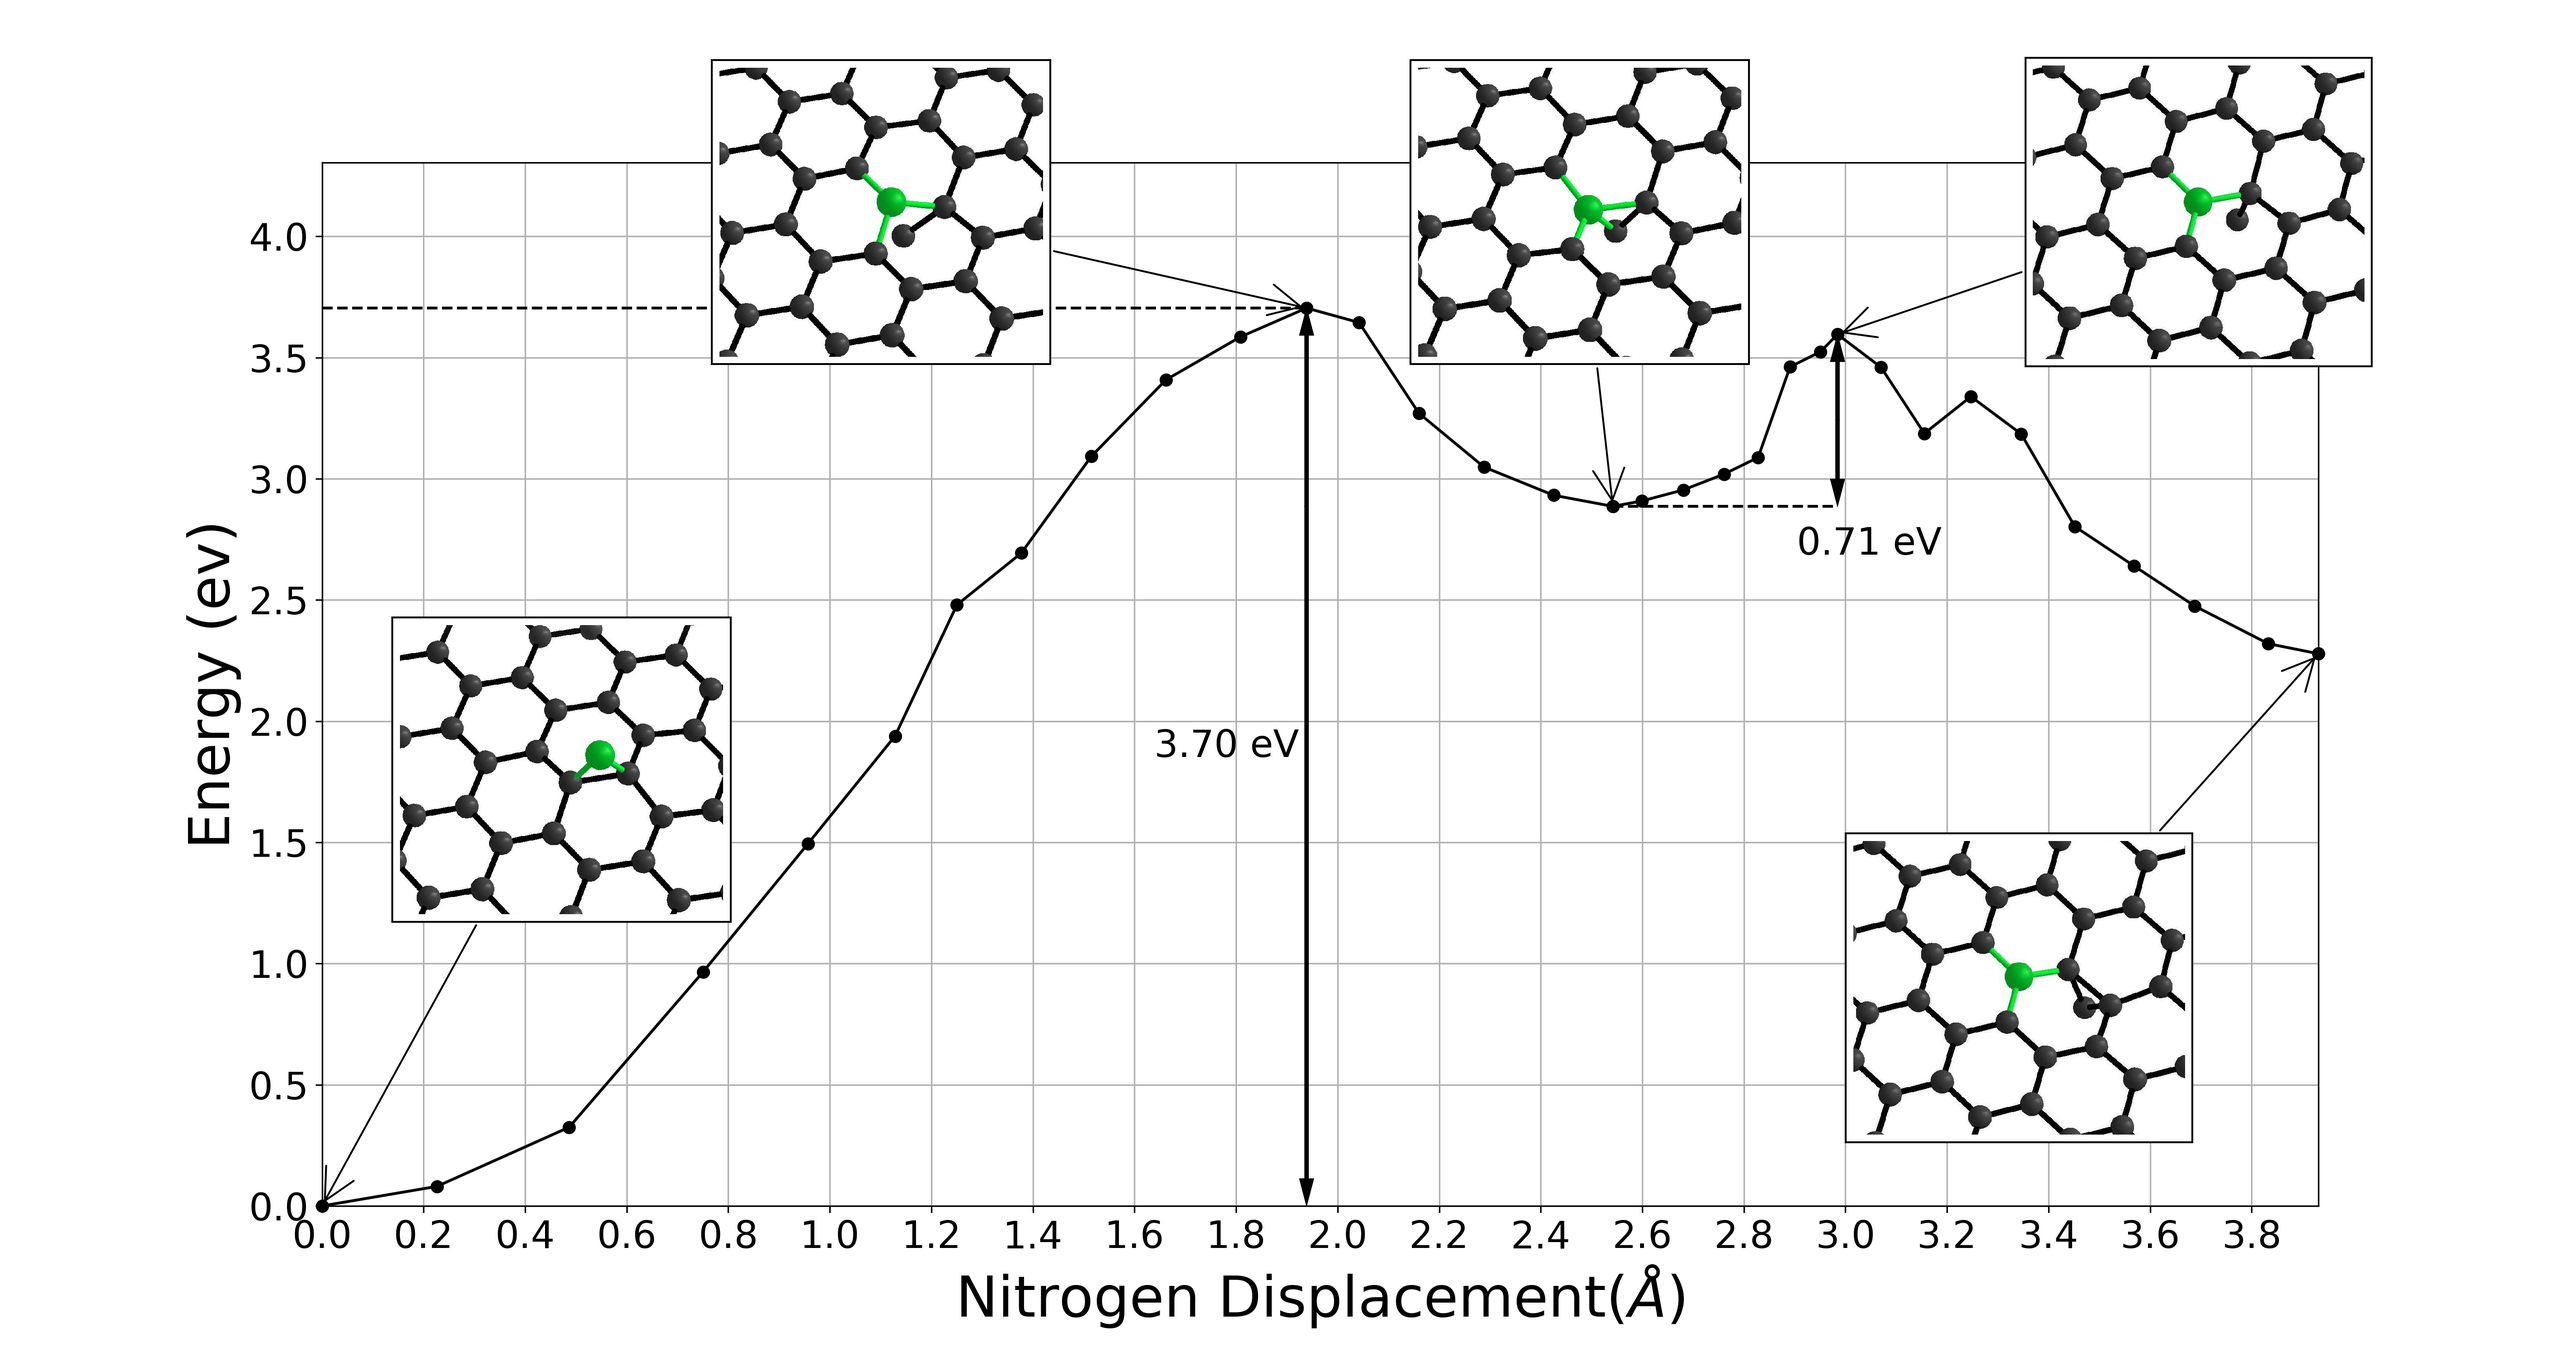
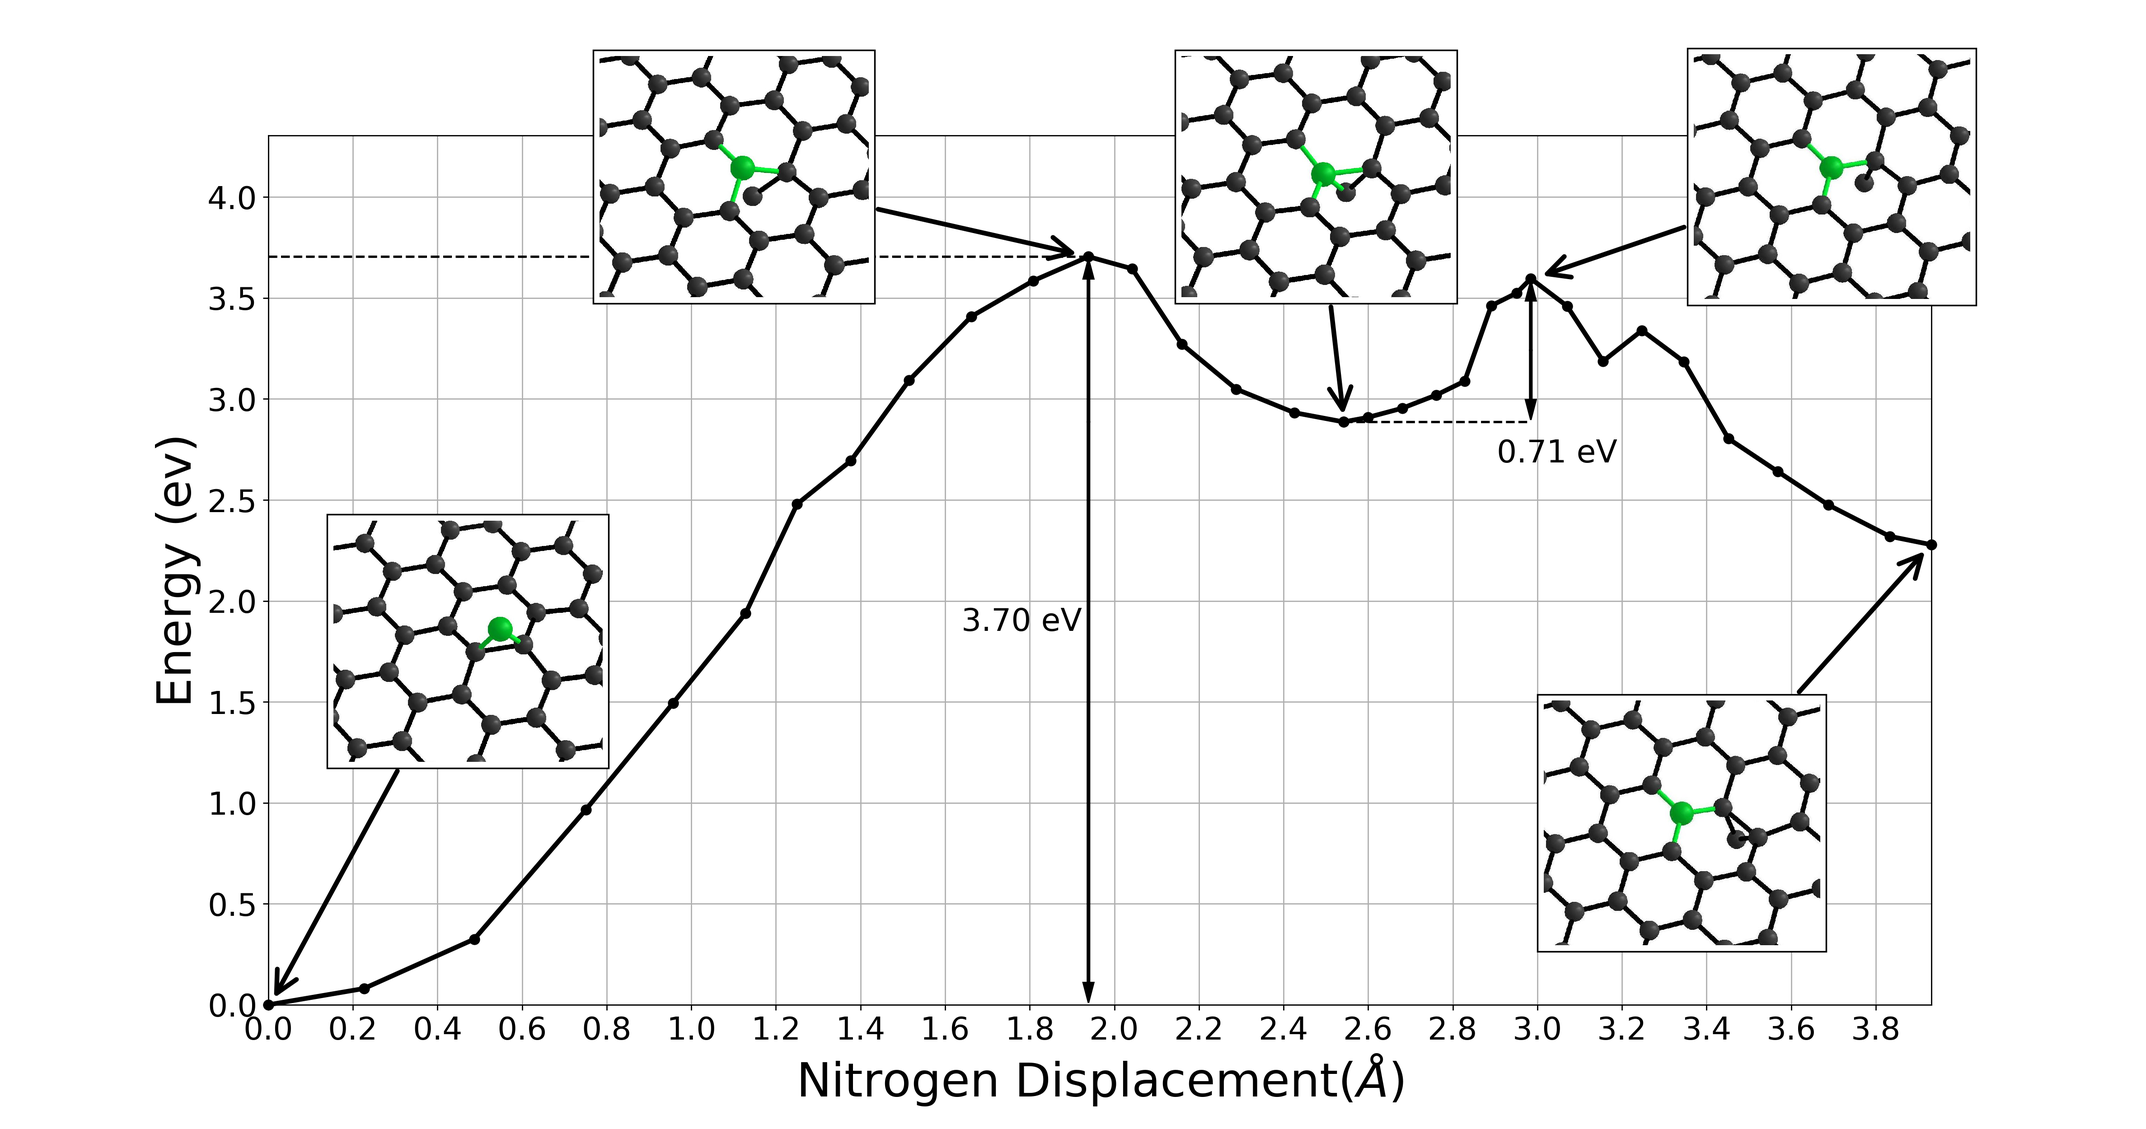
traits plus épais pour mm

diff --git a/figures/stonewales/figure_sw.py b/figures/stonewales/figure_sw.py
@@ -23,8 +23,8 @@ ax.set_ylabel('Energy (ev)',fontsize=30)
 ax.xaxis.set_ticks(np.arange(distances1[0], distances2[-1], 0.4))
 ax.tick_params(labelsize=20)
 
-ax.plot(distances1, reaction1,'-ok', clip_on=False)
-ax.plot(distances2, reaction2,'-ok', clip_on=False)
+ax.plot(distances1, reaction1,'-ok', linewidth=3, clip_on=False)
+ax.plot(distances2, reaction2,'-ok', linewidth=3, clip_on=False)
 ax.grid(True)
 ax.set_axisbelow(True)
 
@@ -80,24 +80,24 @@ imagebox4.image.axes = ax
 imagebox5.image.axes = ax
 imagebox6.image.axes = ax
 
-ab1 = AnnotationBbox(imagebox1, [distances1[0], reaction1[0]],
+ab1 = AnnotationBbox(imagebox1, [distances1[0]+0.01, reaction1[0]+0.02],
                     xybox = [0.1 * distances2[-1], 4.5],
-                    arrowprops=dict(arrowstyle = "->"))
-ab2 = AnnotationBbox(imagebox2, [distances1[max1], reaction1[max1]],
+                    arrowprops=dict(arrowstyle = "->", linewidth=3))
+ab2 = AnnotationBbox(imagebox2, [distances1[max1], reaction1[max1]+0.02],
                     xybox = [0.30 * distances2[-1], 6.5],
-                    arrowprops=dict(arrowstyle = "->"))
-ab3 = AnnotationBbox(imagebox3, [distances1[max2], reaction1[max2]],
+                    arrowprops=dict(arrowstyle = "->", linewidth=3))
+ab3 = AnnotationBbox(imagebox3, [distances1[max2], reaction1[max2]+0.02],
                     xybox = [0.5 * distances2[-1], 6.5],
-                    arrowprops=dict(arrowstyle = "->"))
-ab4 = AnnotationBbox(imagebox4, [distances1[-1], reaction1[-1]],
-                    xybox = [0.55 * distances2[-1], 1.4],
-                    arrowprops=dict(arrowstyle = "->"))
-ab5 = AnnotationBbox(imagebox5, [distances2[max3], reaction2[max3]],
-                    xybox = [0.79 * distances2[-1],2],
-                    arrowprops=dict(arrowstyle = "->"))
-ab6 = AnnotationBbox(imagebox6, [distances2[-1], reaction2[-1]],
-                    xybox = [0.98 * distances2[-1],2],
-                    arrowprops=dict(arrowstyle = "->"))
+                    arrowprops=dict(arrowstyle = "->", linewidth=3))
+ab4 = AnnotationBbox(imagebox4, [distances1[-1], reaction1[-1]-0.02],
+                    xybox = [0.60 * distances2[-1], 1.4],
+                    arrowprops=dict(arrowstyle = "->", linewidth=3))
+ab5 = AnnotationBbox(imagebox5, [distances2[max3], reaction2[max3]-0.02],
+                    xybox = [0.79 * distances2[-1],3.3],
+                    arrowprops=dict(arrowstyle = "->", linewidth=3))
+ab6 = AnnotationBbox(imagebox6, [distances2[-1], reaction2[-1]-0.02],
+                    xybox = [0.98 * distances2[-1],3.3],
+                    arrowprops=dict(arrowstyle = "->", linewidth=3))
 
 ax.add_artist(ab1)
 ax.add_artist(ab2)

diff --git a/figures/sc2_inverse/figure_sc2_inverse.py b/figures/sc2_inverse/figure_sc2_inverse.py
@@ -23,8 +23,8 @@ ax.set_ylabel('Energy (ev)',fontsize=30)
 ax.xaxis.set_ticks(np.arange(distances1[0], distances2[-1], 0.2))
 ax.tick_params(labelsize=20)
 
-ax.plot(distances1, reaction1,'-ok', clip_on=False)
-ax.plot(distances2, reaction2,'-ok', clip_on=False)
+ax.plot(distances1, reaction1,'-ok', linewidth=3, clip_on=False)
+ax.plot(distances2, reaction2,'-ok', linewidth=3, clip_on=False)
 ax.grid(True)
 ax.set_axisbelow(True)
 
@@ -67,21 +67,21 @@ imagebox3.image.axes = ax
 imagebox4.image.axes = ax
 imagebox5.image.axes = ax
 
-ab1 = AnnotationBbox(imagebox1, [distances1[0], reaction1[0]],
+ab1 = AnnotationBbox(imagebox1, [distances1[0]+0.01, reaction1[0]+0.02],
                     xybox = [0.12 * distances2[-1], 1.8],
-                    arrowprops=dict(arrowstyle = "->"))
-ab2 = AnnotationBbox(imagebox2, [distances1[max1], reaction1[max1]],
+                    arrowprops=dict(arrowstyle = "->", linewidth=3))
+ab2 = AnnotationBbox(imagebox2, [distances1[max1]-0.02, reaction1[max1]+0.01],
                     xybox = [0.28 * distances2[-1], 4.1],
-                    arrowprops=dict(arrowstyle = "->"))
-ab3 = AnnotationBbox(imagebox3, [distances1[-1], reaction1[-1]],
+                    arrowprops=dict(arrowstyle = "->", linewidth=3))
+ab3 = AnnotationBbox(imagebox3, [distances1[-1], reaction1[-1]+0.02],
                     xybox = [0.63 * distances2[-1], 4.1],
-                    arrowprops=dict(arrowstyle = "->"))
-ab4 = AnnotationBbox(imagebox4, [distances2[max2], reaction2[max2]],
+                    arrowprops=dict(arrowstyle = "->", linewidth=3))
+ab4 = AnnotationBbox(imagebox4, [distances2[max2]+0.02, reaction2[max2]+0.01],
                     xybox = [0.94 * distances2[-1], 4.1],
-                    arrowprops=dict(arrowstyle = "->"))
-ab5 = AnnotationBbox(imagebox5, [distances2[-1], reaction2[-1]],
+                    arrowprops=dict(arrowstyle = "->", linewidth=3))
+ab5 = AnnotationBbox(imagebox5, [distances2[-1]-0.01, reaction2[-1]-0.02],
                     xybox = [0.85 * distances2[-1],0.9],
-                    arrowprops=dict(arrowstyle = "->"))
+                    arrowprops=dict(arrowstyle = "->", linewidth=3))
 
 ax.add_artist(ab1)
 ax.add_artist(ab2)
@@ -91,4 +91,4 @@ ax.add_artist(ab5)
 
 #Show or save figure
 #plt.show()
-plt.savefig('sc2_inverse', dpi = 300)
+plt.savefig('sc2_inverse', dpi = 250)

diff --git a/figures/sc2_direct/figure_sc2_direct.py b/figures/sc2_direct/figure_sc2_direct.py
@@ -23,8 +23,8 @@ ax.set_ylabel('Energy (ev)',fontsize=30)
 ax.xaxis.set_ticks(np.arange(distances1[0], distances2[-1], 0.2))
 ax.tick_params(labelsize=20)
 
-ax.plot(distances1, reaction1,'-ok', clip_on=False)
-ax.plot(distances2, reaction2,'-ok', clip_on=False)
+ax.plot(distances1, reaction1,'-ok', linewidth=3, clip_on=False)
+ax.plot(distances2, reaction2,'-ok', linewidth=3, clip_on=False)
 ax.grid(True)
 ax.set_axisbelow(True)
 
@@ -69,21 +69,21 @@ imagebox3.image.axes = ax
 #imagebox4.image.axes = ax
 imagebox5.image.axes = ax
 
-ab1 = AnnotationBbox(imagebox1, [distances1[0], reaction1[0]],
+ab1 = AnnotationBbox(imagebox1, [distances1[0]+0.01, reaction1[0]+0.02],
                     xybox = [0.14 * distances2[-1], 5.4],
-                    arrowprops=dict(arrowstyle = "->"))
-ab2 = AnnotationBbox(imagebox2, [distances1[max1], reaction1[max1]],
+                    arrowprops=dict(arrowstyle = "->",linewidth=3))
+ab2 = AnnotationBbox(imagebox2, [distances1[max1]+0.02, reaction1[max1]+0.01],
                     xybox = [0.48 * distances2[-1], 5.4],
-                    arrowprops=dict(arrowstyle = "->"))
-ab3 = AnnotationBbox(imagebox3, [distances1[-1], reaction1[-1]],
+                    arrowprops=dict(arrowstyle = "->", linewidth=3))
+ab3 = AnnotationBbox(imagebox3, [distances1[-1]+0.02, reaction1[-1]+0.03],
                     xybox = [0.80 * distances2[-1], 5.4],
-                    arrowprops=dict(arrowstyle = "->"))
+                    arrowprops=dict(arrowstyle = "->", linewidth=3))
 #ab4 = AnnotationBbox(imagebox4, [distances1[7], reaction1[7]],
 #                    xybox = [0.5 * distances2[-1], 4.8],
 #                    arrowprops=dict(arrowstyle = "->"))
-ab5 = AnnotationBbox(imagebox5, [distances2[-1], reaction2[-1]],
+ab5 = AnnotationBbox(imagebox5, [distances2[-1]-0.02, reaction2[-1]-0.02],
                     xybox = [0.80 * distances2[-1],1.2],
-                    arrowprops=dict(arrowstyle = "->"))
+                    arrowprops=dict(arrowstyle = "->",linewidth=3))
 
 ax.add_artist(ab1)
 ax.add_artist(ab2)

diff --git a/figures/sc3/figure_sc3.py b/figures/sc3/figure_sc3.py
@@ -20,7 +20,7 @@ ax.set_ylabel('Energy (ev)',fontsize=30)
 ax.xaxis.set_ticks(np.arange(distances[0], distances[-1], 0.2))
 ax.tick_params(labelsize=20)
 
-ax.plot(distances, reaction,'k-o', clip_on=False)
+ax.plot(distances, reaction,'k-o', linewidth=3, clip_on=False)
 ax.grid(True)
 ax.set_axisbelow(True)
 
@@ -53,25 +53,23 @@ imagebox2.image.axes = ax
 imagebox3.image.axes = ax
 imagebox4.image.axes = ax
 
-ab1 = AnnotationBbox(imagebox1, [distances[0], reaction[0]],
+ab1 = AnnotationBbox(imagebox1, [distances[0]+0.01, reaction[0]-0.02],
                     xybox = [0.165 * distances[-1], -2],
-                    arrowprops=dict(arrowstyle = "->"))
-ab2 = AnnotationBbox(imagebox2, [distances[6], reaction[6]],
+                    arrowprops=dict(arrowstyle = "->", linewidth=3))
+ab2 = AnnotationBbox(imagebox2, [distances[6]+0.01, reaction[6]+0.01],
                     xybox = [0.48 * distances[-1], 1.45],
-                    arrowprops=dict(arrowstyle = "->"))
-ab3 = AnnotationBbox(imagebox3, [distances[12], reaction[12]],
+                    arrowprops=dict(arrowstyle = "->", linewidth=3))
+ab3 = AnnotationBbox(imagebox3, [distances[12]+0.01, reaction[12]+0.01],
                     xybox = [0.83 * distances[-1], 0.6],
-                    arrowprops=dict(arrowstyle = "->"))
-ab4 = AnnotationBbox(imagebox4, [distances[-1], reaction[-1]],
+                    arrowprops=dict(arrowstyle = "->", linewidth=3))
+ab4 = AnnotationBbox(imagebox4, [distances[-1]-0.01, reaction[-1]+0.02],
                     xybox = [0.83 * distances[-1], -2.8],
-                    arrowprops=dict(arrowstyle = "->"))
+                    arrowprops=dict(arrowstyle = "->", linewidth=3))
 
 ax.add_artist(ab1)
 ax.add_artist(ab2)
 ax.add_artist(ab3)
 ax.add_artist(ab4)
-
-#fig.tight_layout()
 
 #Show or save figure
 #plt.show()

diff --git a/figures/transition_incorporation/figure_incorporation_direct.py b/figures/transition_incorporation/figure_incorporation_direct.py
@@ -21,12 +21,12 @@ time = np.linspace(1.,len(reaction), len(reaction))
 
 fig,ax = plt.subplots(figsize=[16,11])
 
-ax.set_facecolor('xkcd:silver')
+ax.set_facecolor('xkcd:light grey')
 ax.plot(time, reaction,'o')
 color = ['k','r','k','r','k','r','k']
 for i in range(len(reaction)-1):
     delta = np.linspace(i+1, i+2, 100)
-    ax.plot(delta, fbr.sin_interpolate(reaction[i], reaction[i+1], delta), color=color[i])
+    ax.plot(delta, fbr.sin_interpolate(reaction[i], reaction[i+1], delta), linewidth=3, color=color[i])
 
 
 #Set axis
@@ -38,8 +38,8 @@ ax.xaxis.set_ticks_position('none')
 ax.yaxis.set_ticks_position('none')
 ax.spines['top'].set_visible(False)
 ax.spines['right'].set_visible(False)
-ax.set_xlabel('Time',fontsize=30)
-ax.set_ylabel('Energy',fontsize=30)
+ax.set_xlabel('Time',fontsize=35)
+ax.set_ylabel('Energy',fontsize=35)
 
 #Fig values
 xmin, xmax = ax.get_xlim()
@@ -64,15 +64,15 @@ ax.arrow(xmin, ymin, 0, ymax-ymin, fc='k', ec='k', lw = lw,
          head_width=yhw, head_length=yhl, overhang = ohg,
          length_includes_head= True, clip_on = False)
 
-xoffset = [-0.4, -0.4, -0.55, -0.4, -0.7, -0.4, -0.55, -0.4]
+xoffset = [-0.5, -0.5, -0.55, -0.5, -0.8, -0.5, -0.65, -0.5]
 yoffset = [0.1,-0.24,0.1,-0.24,0.1,-0.24,0.1,-0.24]
 texts = ['Initial state', 'Adsorbed N', 'N diffusion TS', 'Adsorbed N',
          'Functionalisation TS', 'Adsorbed C', 'C diffusion TS', 'Final state']
 
 for i,ener in enumerate(reaction):
     ax.plot([time[i] - 0.25, time[i] + 0.25], [ener, ener], 'k')
-    ax.text(time[i] + xoffset[i] , ener + yoffset[i] , texts[i], fontsize = 20)
+    ax.text(time[i] + xoffset[i] , ener + yoffset[i] , texts[i], fontsize = 25)
 
 fig.tight_layout()
-plt.savefig('reaction.png')
+plt.savefig('reaction.png', dpi=300)
 #plt.show()
